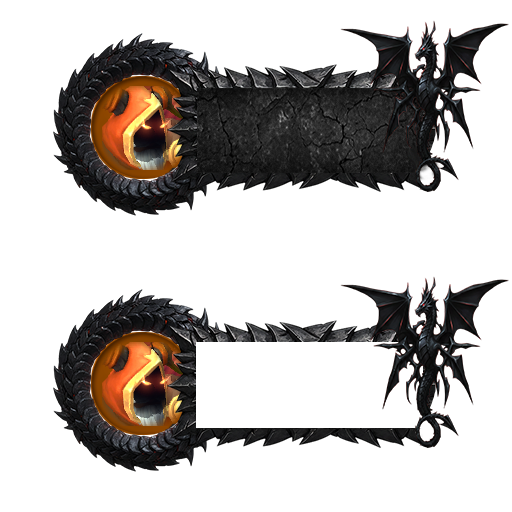
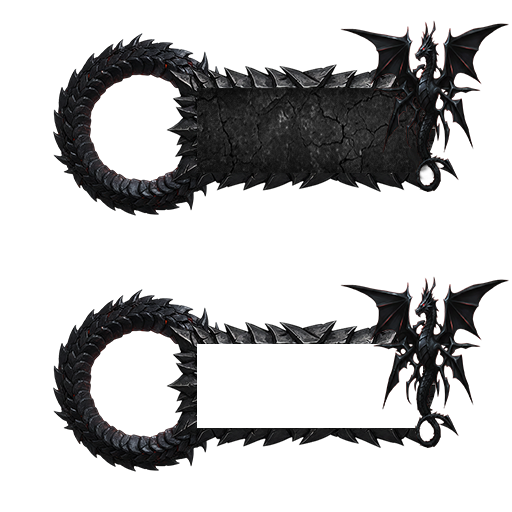
textures: Fixed blackdragon-2x.png texture and changed warlock-2x.png and warlock_demonology-2x.png textures docs: Fixed toc typo

Changed region(s): [[0.1562, 0.625, 0.7812, 0.875], [0.1562, 0.125, 0.375, 0.375]]

diff --git a/README.md b/README.md
@@ -1,7 +1,7 @@
 # EPF Custom Skins
 
 [![License: CC BY-NC-SA 4.0](https://img.shields.io/badge/License-CC%20BY--NC--SA%204.0-blue.svg)](https://creativecommons.org/licenses/by-nc-sa/4.0/)
-[![Version](https://img.shields.io/badge/Version-1.0.1-informational)](ElitePlayerFrame_Enhacned_CustomSkins.toc)
+[![Version](https://img.shields.io/badge/Version-1.0.2-informational)](ElitePlayerFrame_Enhacned_CustomSkins.toc)
 [![WoW](https://img.shields.io/badge/WoW-12.0%20(TWW)-orange)](https://worldofwarcraft.blizzard.com/)
 [![Lua](https://img.shields.io/badge/Lua-5.x-blue)](https://www.lua.org/)
 
